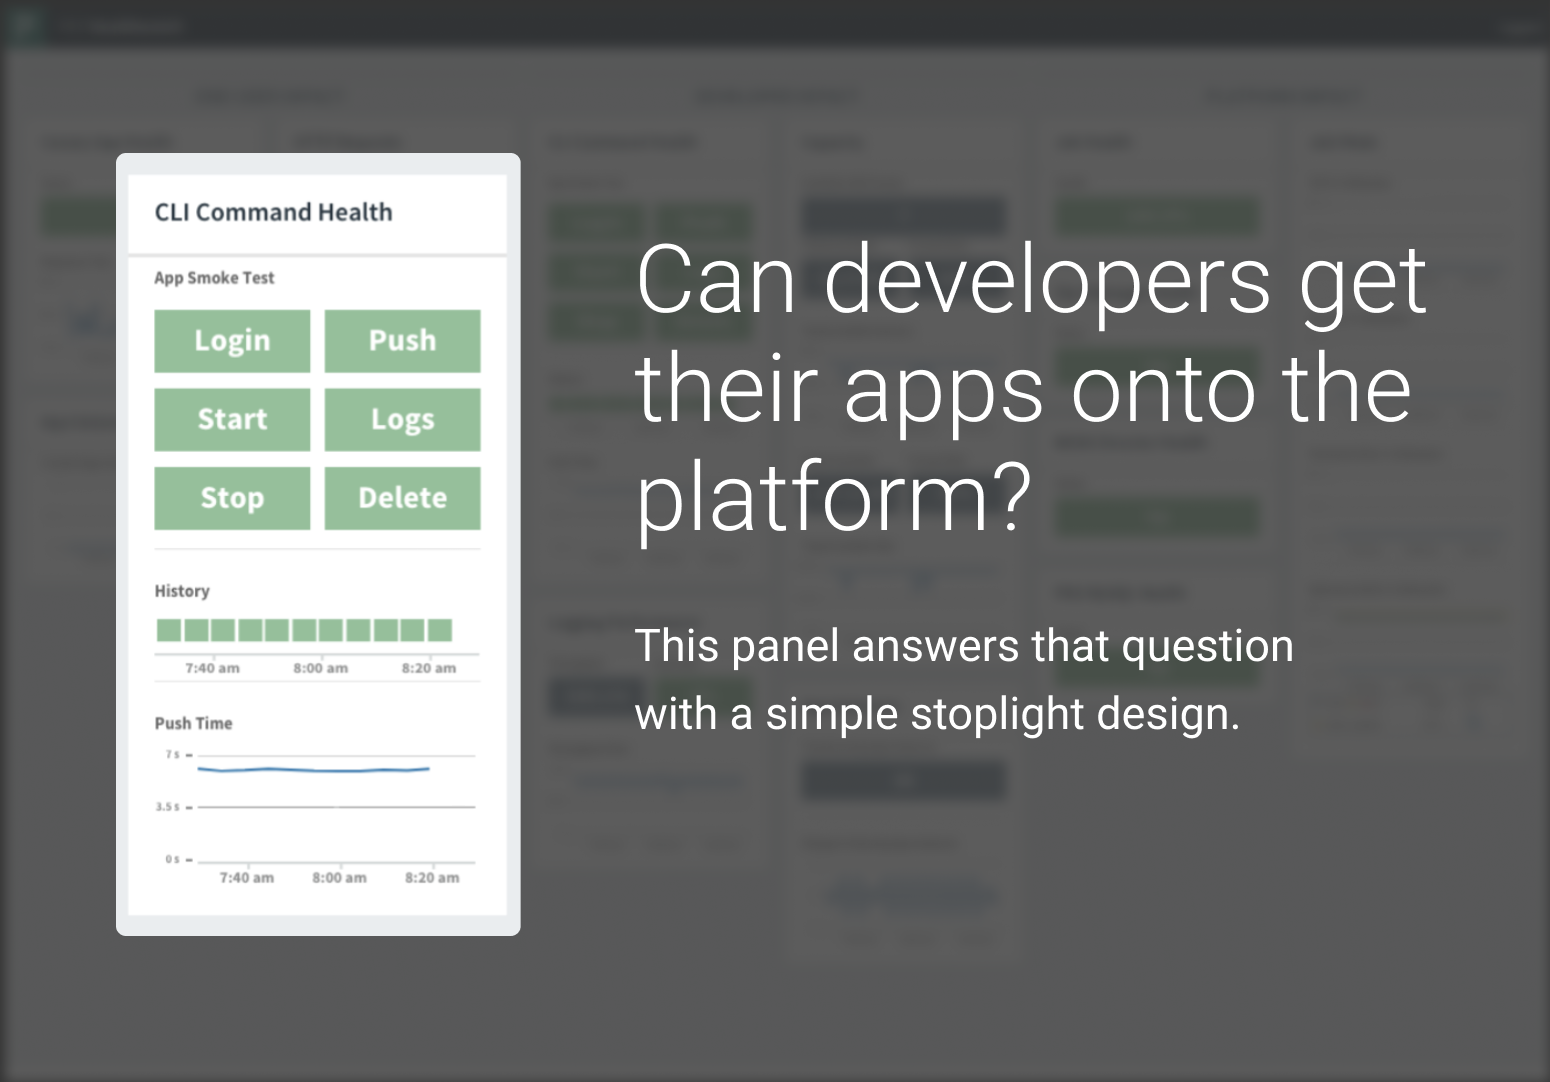
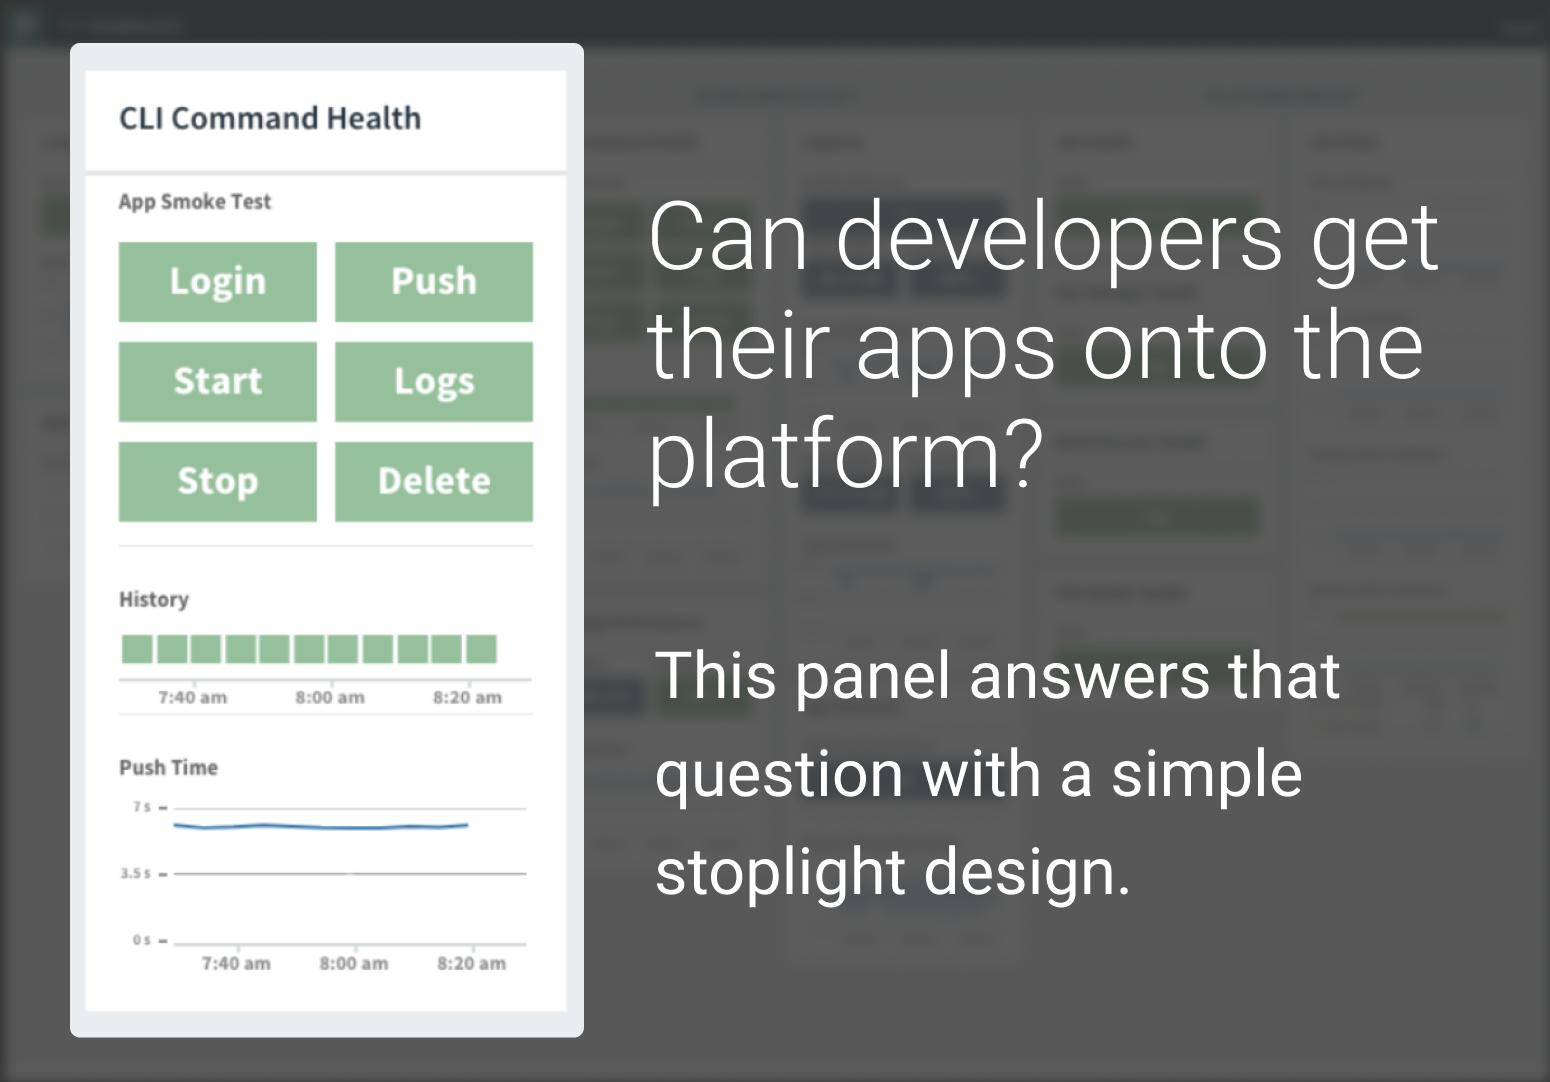
Change

Changed region(s): [[0.031, 0.0305, 0.929, 0.976]]

diff --git a/healthwatch.html b/healthwatch.html
@@ -266,18 +266,17 @@
     <div class="container-fluid-content-02" style="max-width: 1200px; padding-bottom:120px;">
       <div class="row m-0 pb-0 gx-5">
         <div class="col-md">
-          
-           <img src="images/healthwatch-02-04.png" class="img-fluid pb-4" alt="image">
-          <div class="regular-lg text-light" style="text-align: center;">
+           <img src="images/healthwatch-02-04.png" class="img-fluid" alt="image">
+          <div class="regular-lg text-light pt-3" style="text-align: center;">
             <div class="bold-5 pb-4 text-extra-light">Detail views with historical data</div>
               Historic data helps platform operators answer the question, “What happened when I was away?” The view above shows 24 hours of automated test results. <br><span class="caption" style="color:#999;">Visual design by Justin Roozeboom</span>
           </div>
         </div>
         <div class="col-md">
-          <div class="ps-4">
-            <img src="images/healthwatch-02-05.png" class="img-fluid pt-3" alt="image">
+          <div>
+            <img src="images/healthwatch-02-05.png" class="img-fluid" alt="image">
           </div>
-          <div class="regular-lg text-light" style="text-align: center;">
+          <div class="regular-lg text-light pt-3" style="text-align: center;">
             <div class="bold-5 pb-4 text-extra-light">API first</div>
               All of the functionality we defined, including automated testing, is available through an API. We assumed that once operators are comfortable monitoring the platform, they’ll graduate and create their own dashboards.
           </div>

diff --git a/style.css b/style.css
@@ -202,7 +202,7 @@ a:active  { color: #333; }
 
 .headline-medium {
 	font-size: 2.25em;
-	font-weight: 900;
+	font-weight: 700;
 	color:#575757;
 	line-height:1.2;
 }
